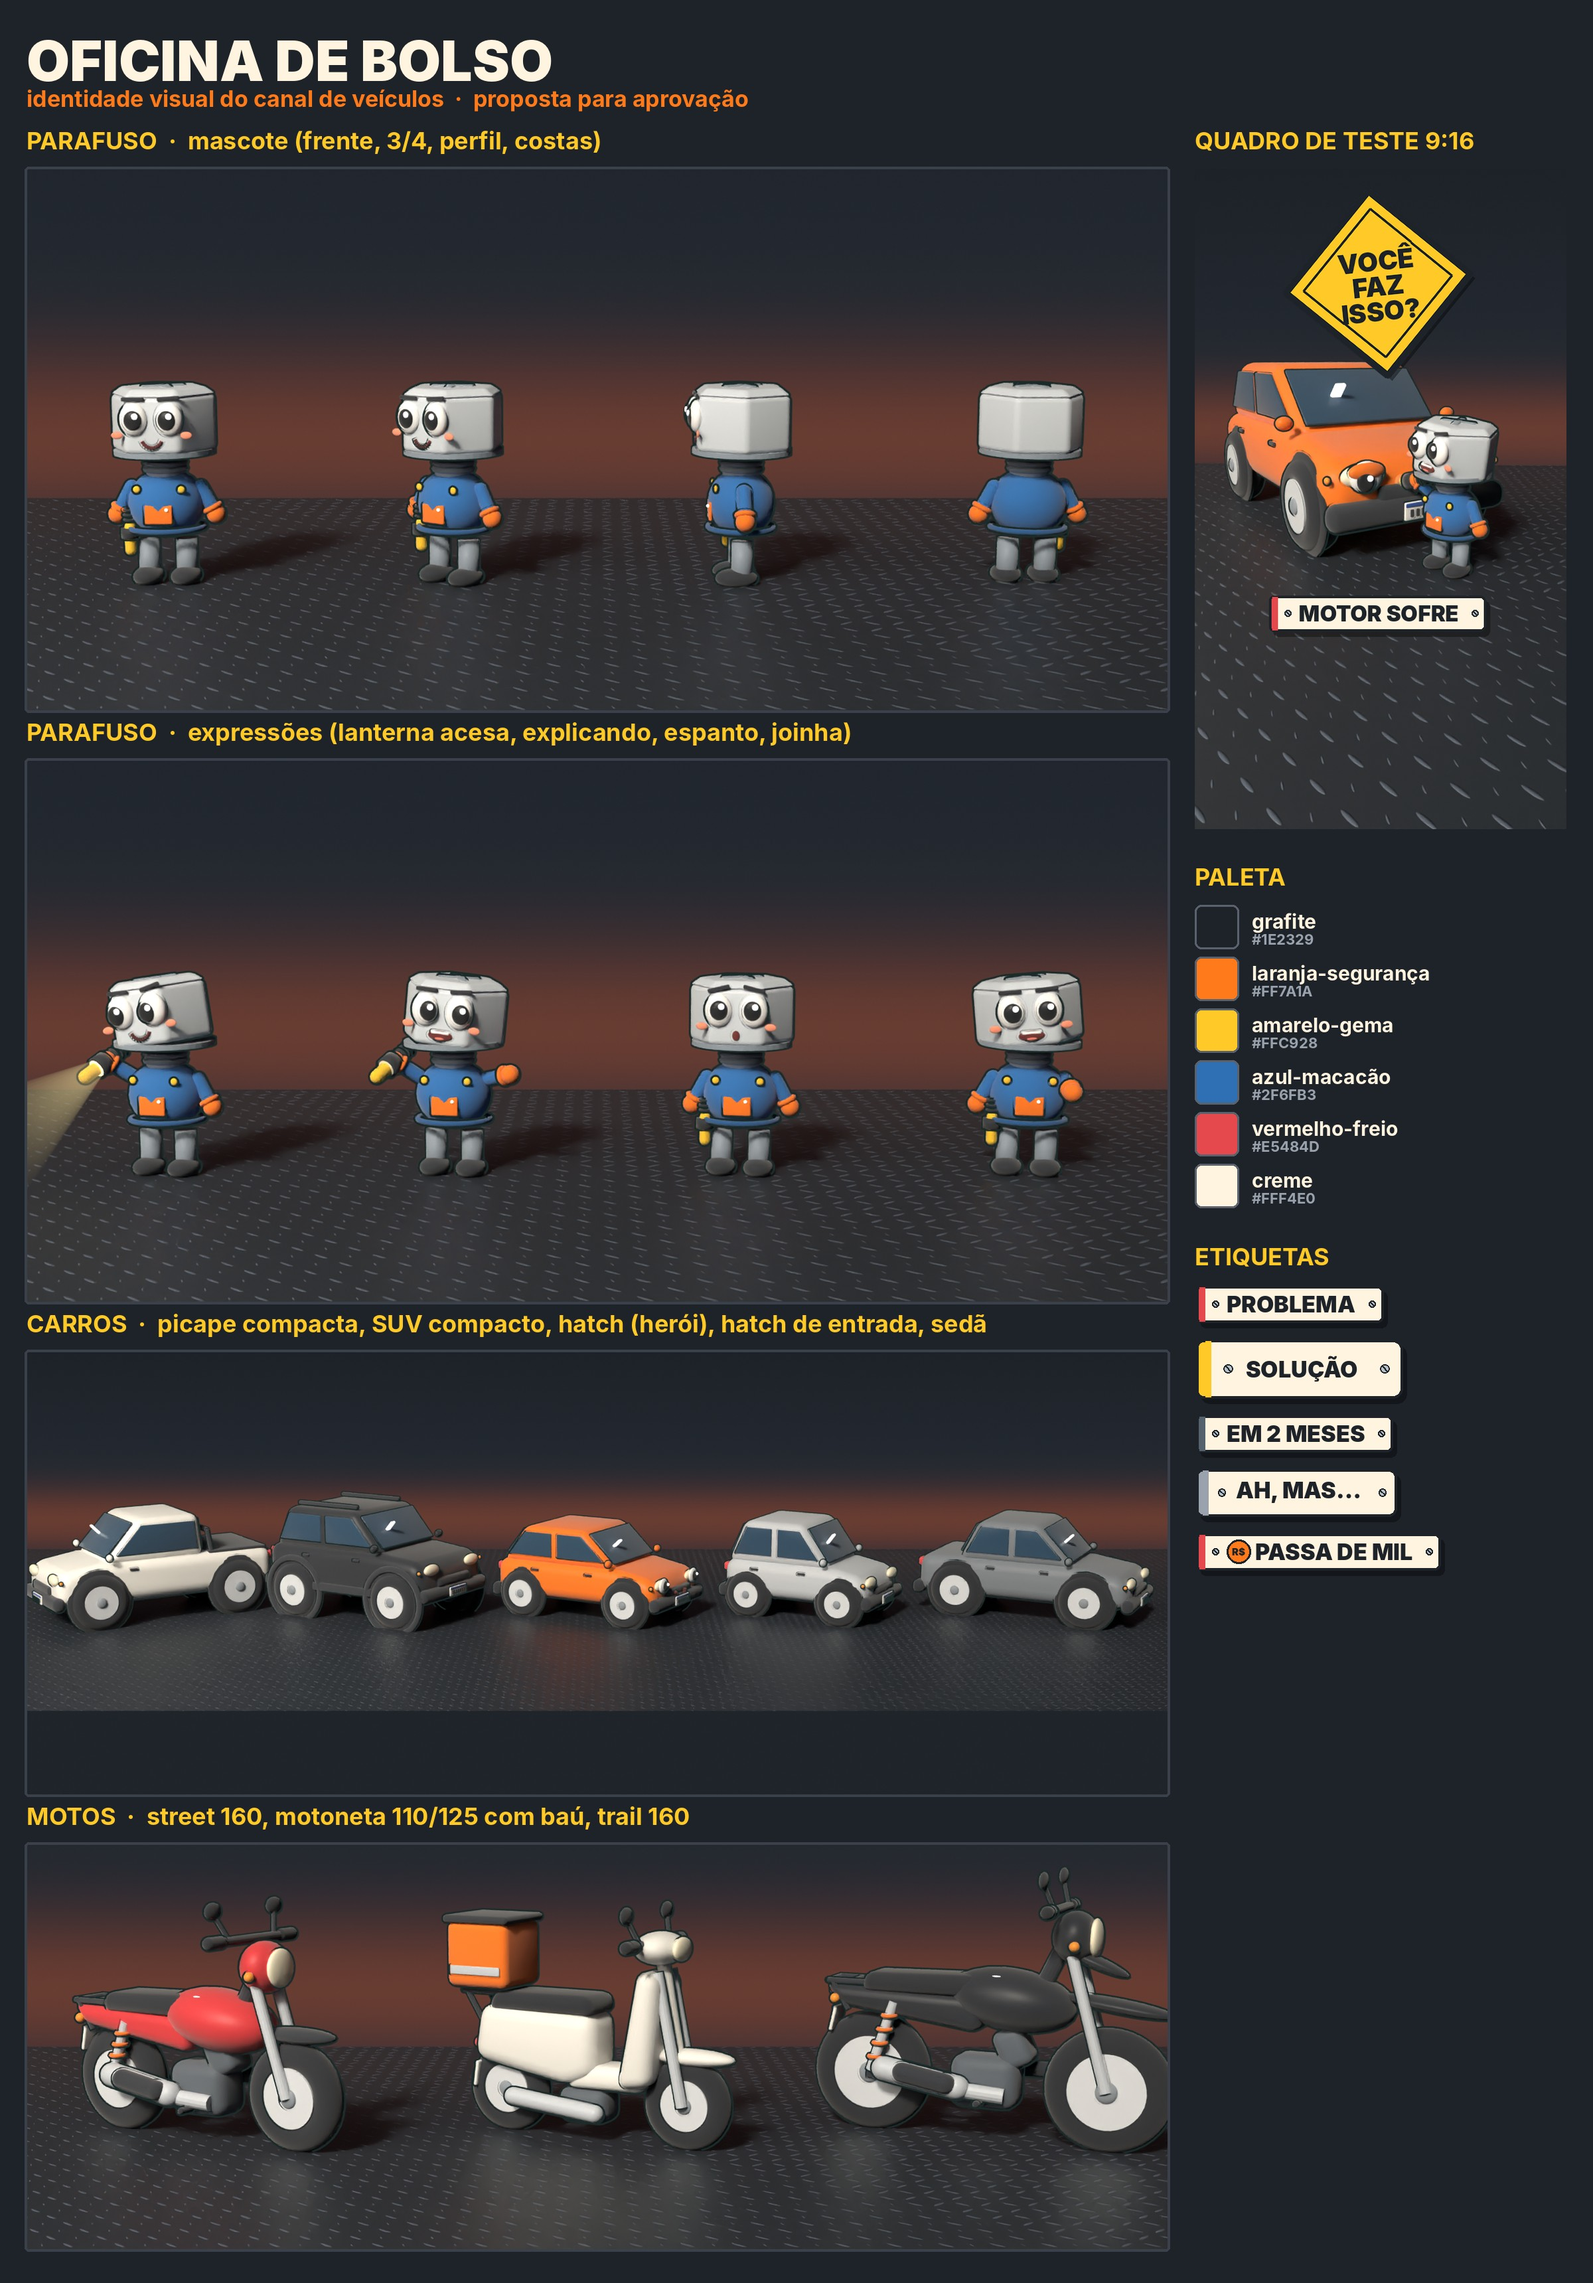
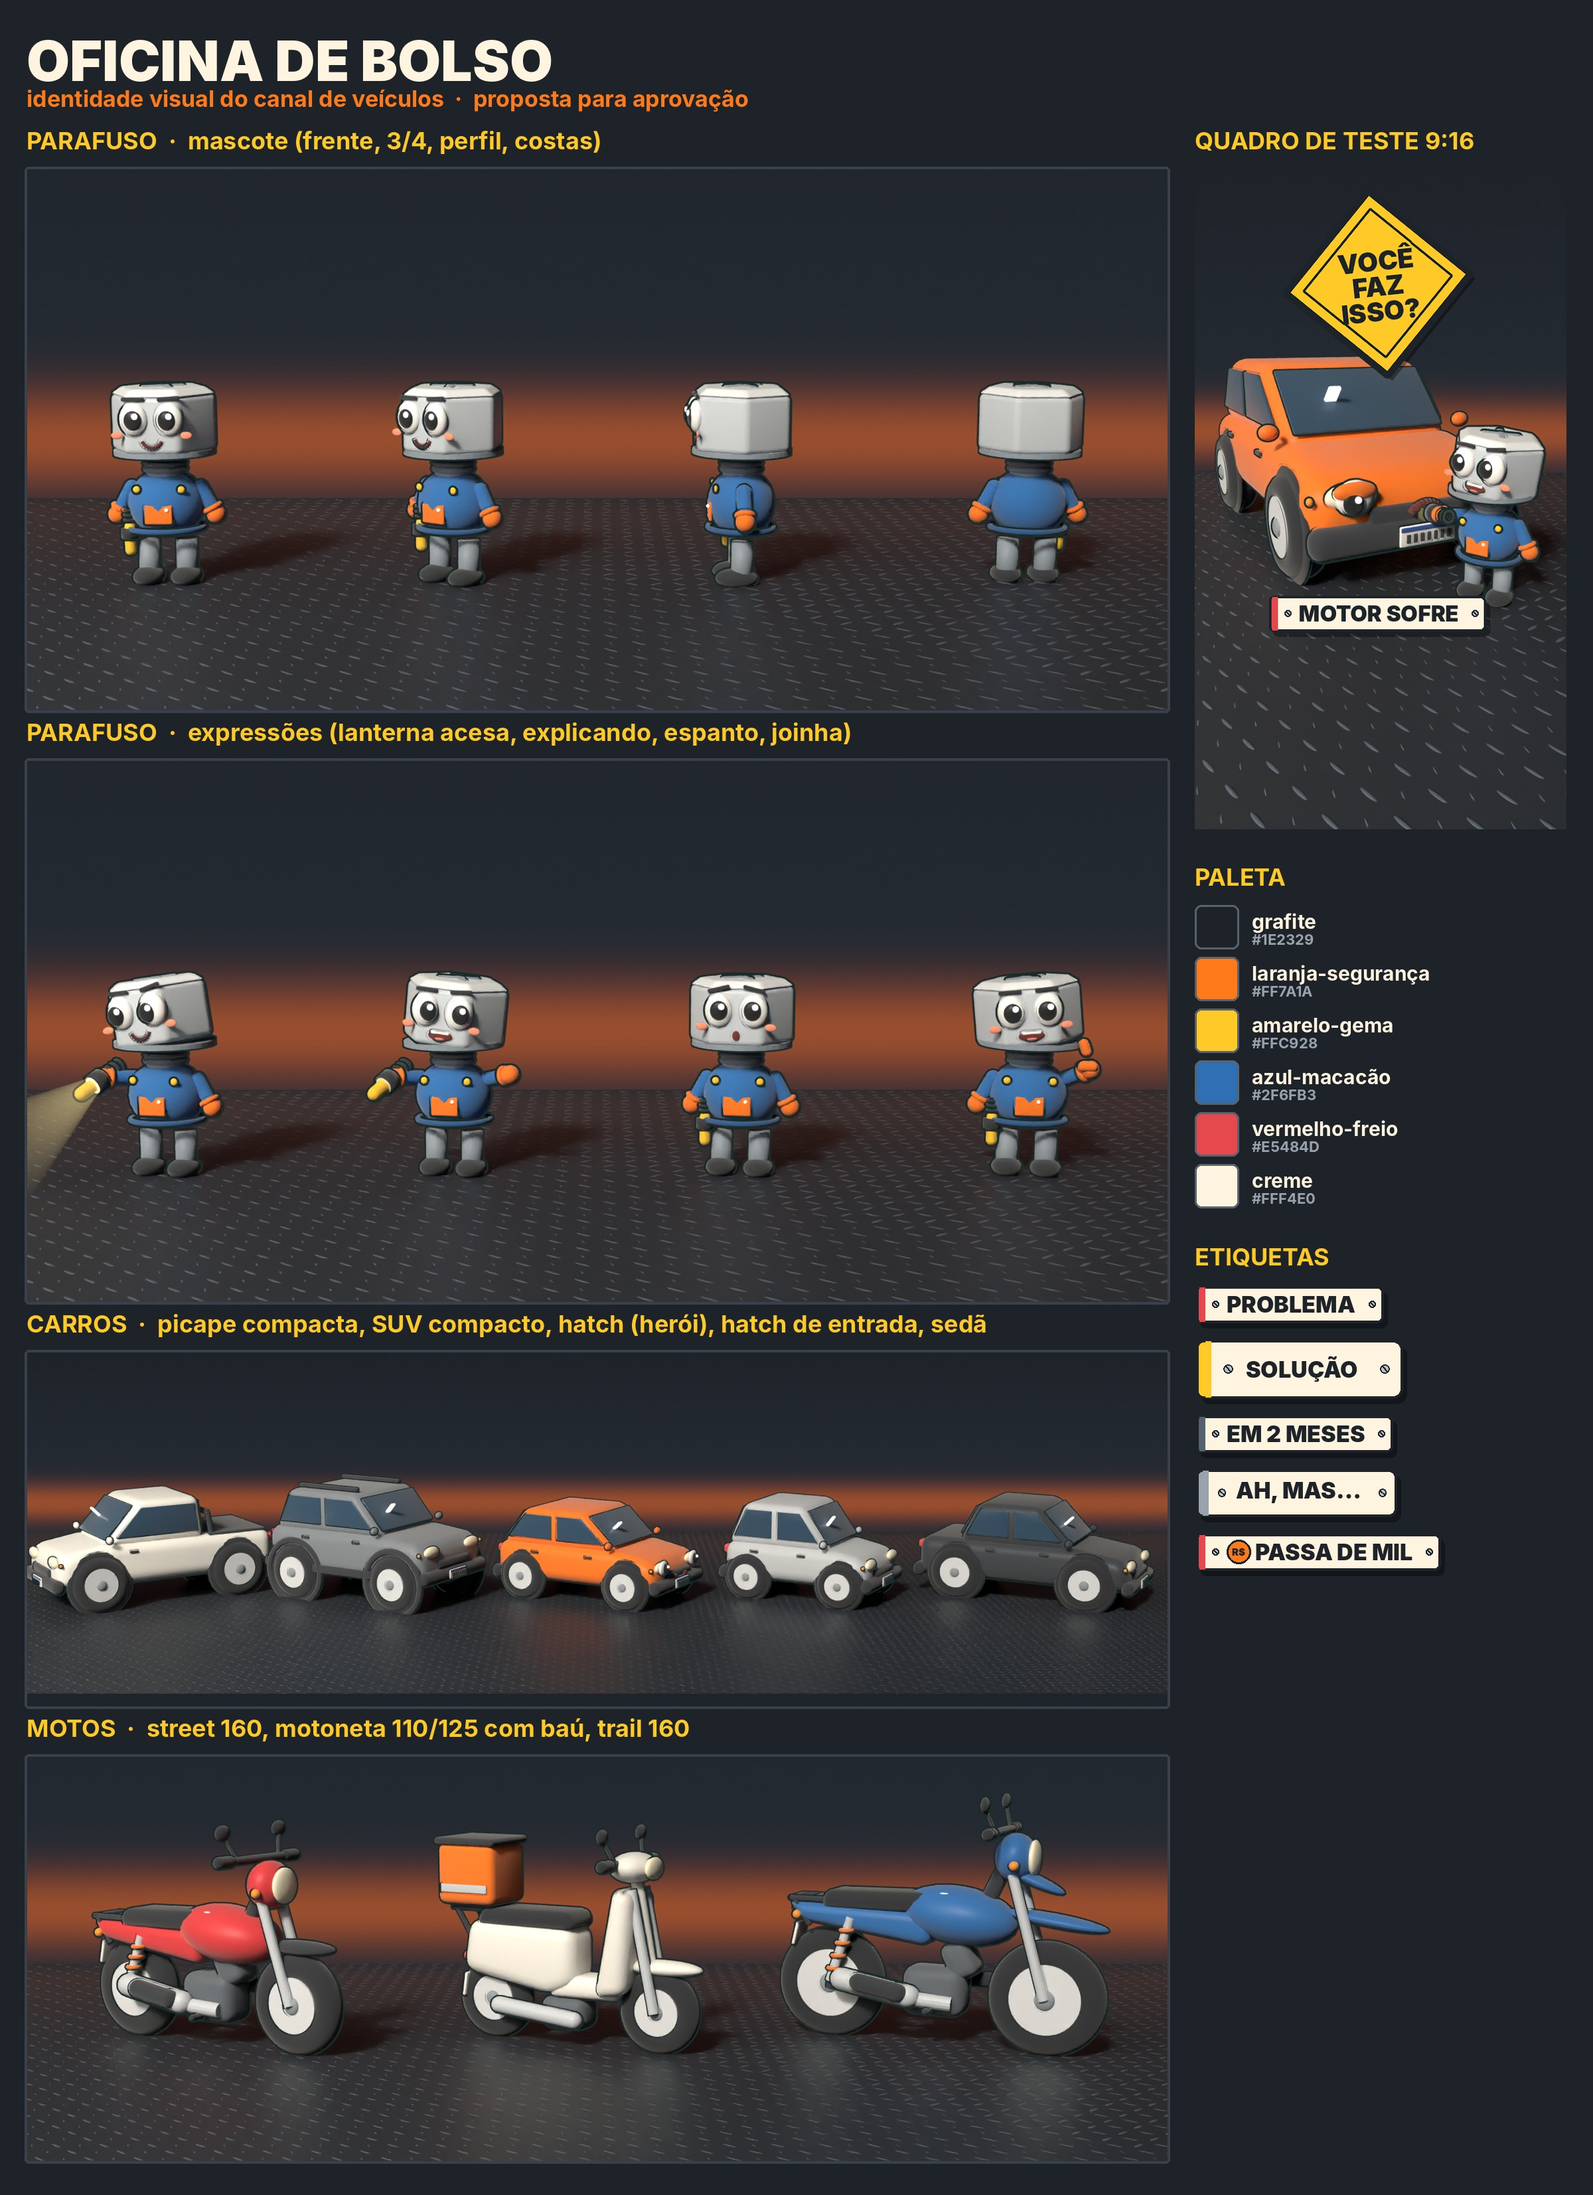
Identidade visual v2.1: retoques da 2ª rodada (quadro, cores, joinha, mostrar_boca)
Claude-Session: https://claude.ai/code/session_01LTuGaoNMB16qvfW22NeZiH

diff --git a/motor3d/pecas_veiculos.py b/motor3d/pecas_veiculos.py
@@ -22,12 +22,12 @@ PALETA = {"grafite": "#1E2329", "laranja": "#FF7A1A", "gema": "#FFC928", "azul":
           "creme": "#FFF4E0"}
 
 # Cores de lataria (as mais vistas na rua no Brasil + as de destaque da marca)
-LATARIA = {"branco": "#F2F0EA", "prata": "#C3C8CE", "cinza": "#7D848C", "preto": "#2B2F36", "vermelho": "#D9393E",
+LATARIA = {"branco": "#F2F0EA", "prata": "#C3C8CE", "cinza": "#7D848C", "preto": "#3A3F47", "vermelho": "#D9393E",
            "azul": "#2F6FB3", "laranja": "#FF7A1A", "amarelo": "#FFC928"}
 
 VEI = {  # nome: (cor, rugosidade)
     # Parafuso
-    "aco": ("#D5DCE3", 0.35), "aco_escuro": ("#8C98A4", 0.5), "macacao": ("#2F6FB3", 0.92),
+    "aco": ("#CBD3DB", 0.35), "aco_claro": ("#EEF2F5", 0.3), "aco_escuro": ("#8C98A4", 0.5), "macacao": ("#2F6FB3", 0.92),
     "macacao_escuro": ("#24588F", 0.92), "luva": ("#FF7A1A", 0.85), "bota": ("#2A2E35", 0.8),
     "olho_p": ("#FFFFFF", 0.5), "pupila_p": ("#161A1F", 0.4), "boca_p": ("#6E2A2A", 0.7), "lingua_p": ("#FF8C7A", 0.8),
     "bochecha_p": ("#FF9A7A", 0.9), "sobr_p": ("#2A2E35", 0.7), "bolso_p": ("#FF7A1A", 0.9),
@@ -86,6 +86,17 @@ def escurecer(nome_mat, M, f=0.62):
         hx = "#888888"
     r, g, b = (int(hx[i:i + 2], 16) for i in (1, 3, 5))
     return "#%02X%02X%02X" % (int(r * f), int(g * f), int(b * f))
+
+
+def mostrar_boca(D, tipo, t=None):
+    """Mostra só a boca `tipo` de um mascote/veículo (dict com 'bocas'); com t (segundos), grava a troca como
+    keyframe naquele instante. Esconde a boca inteira (filhos incluídos)."""
+    for k, o in D.get("bocas", {}).items():
+        for x in [o] + list(o.children_recursive):
+            x.hide_render = x.hide_viewport = (k != tipo)
+            if t is not None:
+                x.keyframe_insert("hide_render", frame=mt.F(t))
+                x.keyframe_insert("hide_viewport", frame=mt.F(t))
 
 
 def _na_cor(root, m):
@@ -246,7 +257,7 @@ def parafuso(name, M, R=0.1, pose="lanterna", olhar=(0.0, 0.0), sobrancelha=12.0
     bm = bmesh.new()
     bmesh.ops.create_cone(bm, cap_ends=True, segments=6, radius1=R, radius2=R * 0.8, depth=ch,
                           matrix=Matrix.Translation((0, 0, ch / 2)) @ Matrix.Rotation(math.radians(30), 4, "Z"))
-    tp = child(mesh_obj(name + "_chanfro", bm, M["aco"]), cab, (0, 0, hh - ch))
+    tp = child(mesh_obj(name + "_chanfro", bm, M["aco_claro"]), cab, (0, 0, hh - ch))
     bv = tp.modifiers.new("arred", "BEVEL")
     bv.width = R * 0.05
     bv.segments = 3
@@ -349,14 +360,26 @@ def parafuso(name, M, R=0.1, pose="lanterna", olhar=(0.0, 0.0), sobrancelha=12.0
     P["lanterna"] = lr
     # ---- poses
     if pose in ("lanterna", "aponta"):
-        P["braco_d"].rotation_euler = (math.radians(-25), math.radians(128), 0)
+        P["braco_d"].rotation_euler = (math.radians(-45), math.radians(95), 0)
     if pose == "aponta":
         P["braco_e"].rotation_euler = (math.radians(-25), math.radians(-105), 0)
     if pose == "joinha":
-        P["braco_e"].rotation_euler = (math.radians(-70), math.radians(-35), 0)
-        dedo = child(capsula(name + "_polegar", R * 0.085, R * 0.2, M["luva"]), P["mao_e"], (0, -R * 0.03, R * 0.14))
-        dedo.rotation_euler = (math.radians(180), 0, 0)
+        P["braco_e"].rotation_euler = (math.radians(-35), math.radians(-120), 0)     # mão erguida ao lado do rosto
     cab.rotation_euler = (0, math.radians(inclina), 0)
+    if pose == "joinha":   # polegar sempre para cima no mundo (preso à luva depois da pose)
+        bpy.context.view_layer.update()
+        mw = P["mao_e"].matrix_world.translation
+        # punho fechado (dedos dobrados na frente) + polegar curto, grosso e inclinado: lê como "joinha", nunca
+        # como um dedo só levantado
+        punho = capsula(name + "_dedos", R * 0.1, R * 0.16, M["luva"])
+        punho.parent = P["mao_e"]
+        punho.matrix_world = (Matrix.Translation(mw + Vector((R * 0.04, -R * 0.12, R * 0.08)))
+                              @ Matrix.Rotation(math.radians(90), 4, "Y"))
+        dedo = capsula(name + "_polegar", R * 0.095, R * 0.14, M["luva"])
+        dedo.parent = P["mao_e"]
+        dedo.matrix_world = (Matrix.Translation(mw + Vector((-R * 0.08, -R * 0.06, R * 0.36)))
+                             @ Matrix.Rotation(math.radians(160), 4, "Y"))
+        P["polegar"] = dedo
     # lanterna: na mão direita, apontando para o que ela "examina", ou guardada no cinto
     if lanterna is None:
         lanterna = pose in ("lanterna", "aponta")
@@ -441,7 +464,7 @@ def carro_chibi(name, M, tipo="hatch", cor="prata", rosto=False, olhar=(0.0, 0.0
     C, Lg, z0, hb, hc, r, ee, capo = T["c"], T["l"], T["z0"], T["hb"], T["hc"], T["r"], T["ee"], T["capo"]
     cr0, cr1, cf1, cf0 = T["cab"]
     root = empty(name)
-    V = {"raiz": root, "rodas": [], "farois": [], "rosto": [], "olhos": [], "pupilas": []}
+    V = {"raiz": root, "rodas": [], "farois": [], "rosto": [], "olhos": [], "pupilas": [], "bocas": {}}
     x0, x1 = -C / 2, C / 2
     zt = z0 + hb
     m_palp = lataria(M, escurecer(m.name, M))
@@ -579,7 +602,7 @@ def moto_chibi(name, M, tipo="street", cor="vermelho", bau=False, rosto=False):
     materiais_veiculos(M)
     m = lataria(M, cor)
     root = empty(name)
-    V = {"raiz": root, "rodas": [], "farois": [], "corrente": None, "olhos": [], "pupilas": []}
+    V = {"raiz": root, "rodas": [], "farois": [], "corrente": None, "olhos": [], "pupilas": [], "rosto": [], "bocas": {}}
     trail, cub = tipo == "trail", tipo == "cub"
     r = {"street": 0.24, "cub": 0.2, "trail": 0.27}[tipo]
     ee = {"street": 1.0, "cub": 0.9, "trail": 1.06}[tipo]
@@ -722,6 +745,7 @@ def moto_chibi(name, M, tipo="street", cor="vermelho", bau=False, rosto=False):
         for s in (-1, 1):
             ol = child(esfera(f"{name}_olho{s}", 0.04, (0.012, s * 0.035, 0.012), M["olho_v"], scale=(0.4, 0.9, 1.1)), f)
             V["olhos"].append(ol)
+            V["rosto"].append(ol)
             V["pupilas"].append(child(esfera(f"{name}_pupila{s}", 0.024, (0.012, -s * 0.003, 0), M["pupila_v"],
                                              scale=(0.4, 1, 1.1)), ol))
     if bau:
@@ -795,7 +819,7 @@ def chapa_xadrez_mat(name="chapa_xadrez", base="#2B3138", ressalto="#566170", pa
 
 
 def fundo_brilho_mat(name="fundo_oficina", topo="#14181D", meio="#262C34", brilho="#FF7A1A", z_brilho=0.0,
-                     largura=0.4, forca=0.12):
+                     largura=0.22, forca=0.3):
     """Parede grafite em cor chapada (emissão) com uma faixa de brilho laranja suave na altura z_brilho."""
     m = bpy.data.materials.new(name)
     m.use_nodes = True

diff --git a/videos/_estilo/ficha.py b/videos/_estilo/ficha.py
@@ -129,7 +129,7 @@ def cena_expressoes():
     return render("expressoes.png", (1600, 760))
 
 
-CARROS = (("picape", "branco"), ("suv", "preto"), ("hatch", "laranja"), ("popular", "prata"), ("seda", "cinza"))
+CARROS = (("picape", "branco"), ("suv", "cinza"), ("hatch", "laranja"), ("popular", "prata"), ("seda", "preto"))
 
 
 def cena_carros():
@@ -146,11 +146,11 @@ def cena_carros():
         objs.append(V["raiz"])
     ph.contorno(objs, M, esp=0.012)
     iluminar(3.0)
-    camera((0, -17.5, 3.9), (0, 0, 0.45), lens=50)
-    return render("carros.png", (1800, 700))
+    camera((0, -17.5, 3.9), (0, 0, 0.75), lens=50)
+    return render("carros.png", (1800, 560))
 
 
-MOTOS = (("street", "vermelho", False), ("cub", "branco", True), ("trail", "preto", False))
+MOTOS = (("street", "vermelho", False), ("cub", "branco", True), ("trail", "azul", False))
 
 
 def cena_motos():
@@ -161,12 +161,12 @@ def cena_motos():
     objs = []
     for i, (tipo, cor, bau) in enumerate(MOTOS):
         V = pv.moto_chibi(f"m{i}", M, tipo=tipo, cor=cor, bau=bau)
-        V["raiz"].location = (-1.75 + i * 1.75, 0, 0)
+        V["raiz"].location = (-1.85 + i * 1.75, 0, 0)
         V["raiz"].rotation_euler = (0, 0, math.radians(-28))
         objs.append(V["raiz"])
     ph.contorno(objs, M, esp=0.008)
     iluminar(2.0)
-    camera((0, -7.0, 1.6), (0, 0, 0.42), lens=50)
+    camera((0, -7.6, 1.6), (0, 0, 0.42), lens=50)
     return render("motos.png", (1800, 640))
 
 
@@ -177,15 +177,15 @@ def cena_quadro():
     pv.materiais_veiculos(M)
     pv.palco_oficina("palco", M, largura=14, fundo_y=2.2, z_brilho=0.35)
     V = pv.carro_chibi("carro", M, tipo="hatch", cor="laranja", rosto=True, humor="cansado", olhar=(-0.6, 0.2))
-    V["raiz"].location = (-0.25, 0.65, 0)
-    V["raiz"].rotation_euler = (0, 0, math.radians(-58))
-    P = pv.parafuso("par", M, R=0.2, pose="lanterna", boca="aberta", sobrancelha=16, olhar=(-0.7, 0.2), luz=True,
-                    mira=(-1.0, -0.1, -0.3), inclina=6)
-    P["raiz"].location = (0.42, -0.45, 0)
-    P["raiz"].rotation_euler = (0, 0, math.radians(-50))
+    V["raiz"].location = (-0.15, 0.75, 0)
+    V["raiz"].rotation_euler = (0, 0, math.radians(-62))
+    P = pv.parafuso("par", M, R=0.2, pose="lanterna", boca="aberta", sobrancelha=16, olhar=(-0.8, 0.1), luz=True,
+                    mira=(-1.0, 0.5, -0.15), inclina=6)
+    P["raiz"].location = (0.62, -0.3, 0)
+    P["raiz"].rotation_euler = (0, 0, math.radians(-35))
     ph.contorno([V["raiz"], P["raiz"]], M, esp=0.009)
     iluminar(1.4)
-    camera((0.15, -2.9, 1.05), (0.05, 0.1, 0.22), lens=28)
+    camera((0.2, -2.7, 1.15), (0.12, 0.2, 0.32), lens=31)
     return render("quadro_base.png", (576, 1024))
 
 

diff --git a/referencias/03_identidade_e_estilo.md b/referencias/03_identidade_e_estilo.md
@@ -58,3 +58,18 @@ outro palco e outro mascote, para os dois canais não se confundirem.
 
 Antes de renderizar o primeiro vídeo, fazer um quadro de teste do estilo (como o `videos/_estilo_b/` do repositório 3DNOVO) e mostrar ao
 usuário para aprovar.
+
+## Implementado: prévia v2 (12/11/2026, aguardando aprovação)
+Ficha: `videos/_estilo/ficha_identidade.jpg` e quadro 9:16 `videos/_estilo/quadro_teste.png` (refazer com
+`~/.venv-video/bin/python videos/_estilo/ficha.py`). Passou por 2 rodadas de crítico visual + revisor (notas finais: mascote 7,
+veículos 6,5, paleta/luz 6,5, quadro 7; veredito "aprovar com ajustes", ajustes feitos).
+- **Parafuso** (`parafuso()`): cabeça sextavada larga e chata com chanfro claro e fenda Phillips em cima, flange, pescoço
+  de haste rosqueada, macacão azul com bolso laranja, luvas laranja, pernas de aço e botinas. Lanterna amarela na mão
+  direita (feixe em degradê + spot real) ou guardada no cinto. Bocas: sorriso, aberta ("D" largo com dentes), "o", reta.
+- **Carros** (`carro_chibi()`): `hatch`, `popular`, `suv`, `picape` (capota marítima + santo-antônio), `seda`. Olhos só
+  nos faróis (nunca no para-brisa), boca na grade, humor feliz/cansado/susto. Placa Mercosul sem letras.
+- **Motos** (`moto_chibi()`): `street` (tipo CG), `cub` (tipo Biz/Pop), `trail` (tipo Bros); grelha, baú laranja.
+- **Cores de rua:** figurantes em branco, prata, cinza e preto (preto clareado #3A3F47 para não sumir no grafite); o
+  veículo "do cara" em **laranja** (vermelho fica para "problema"; azul é do macacão). Baú nunca vermelho+amarelo (app).
+- **Etiquetas:** plaquinha creme com parafuso em cada ponta; R$ é ícone (moedinha), não categoria.
+- Pesquisa de referência: `referencias/04_referencia_visual_veiculos.md`.

diff --git a/CLAUDE.md b/CLAUDE.md
@@ -57,11 +57,13 @@ disso!") → "O certo é simples…" → "Manda esse vídeo pra quem…" → "E 
   03 corrente da moto seca · 04 jet ski guardado sem lavar por dentro.
 - Motor 3D, sons e exemplos técnicos copiados do repositório 3DNOVO (canal de hábitos).
 
+**Feito (12/11/2026):** identidade visual v2 (mascote Parafuso, 5 carros e 3 motos chibi, palco de oficina,
+etiquetas) em `motor3d/pecas_veiculos.py`, ficha em `videos/_estilo/` (`ficha.py` → `ficha_identidade.jpg`,
+`quadro_teste.png`), pesquisa em `referencias/04_referencia_visual_veiculos.md`. Revisada por crítico visual + revisor.
+
 **Pendente, nesta ordem:**
-1. **Usuário aprovar** o nome (proposta: Raio-X do Motor, @raioxdomotor) e o estilo "Oficina de bolso".
-2. **Prévia do estilo:** criar `motor3d/pecas_veiculos.py` (começar por `parafuso()`, `carro_chibi()`,
-   `palco_oficina()`, `pneu_corte()`) e `videos/_estilo/mockup.py` com 3 quadros de teste, no molde de
-   `videos/_estilo_b/mockup.py`. Mostrar ao usuário.
+1. **Usuário aprovar** o nome (proposta: Raio-X do Motor, @raioxdomotor) e a ficha visual v2.
+2. Peças de corte que faltam em `pecas_veiculos.py`: `pneu_corte()`, `motor_corte()`, `corrente()`, `raio_x()`.
 3. Roteiros têm 196–229 palavras (a regra diz 160–190; o roteiro de hábitos "soneca" tem 211 e fecha em ~70 s).
    Enxugar só se o usuário pedir ou se a narração gravada passar de 75 s.
 4. Roteiro 01: a fonte do Departamento de Energia dos EUA foi citada por reportagens; conferir a página original.
